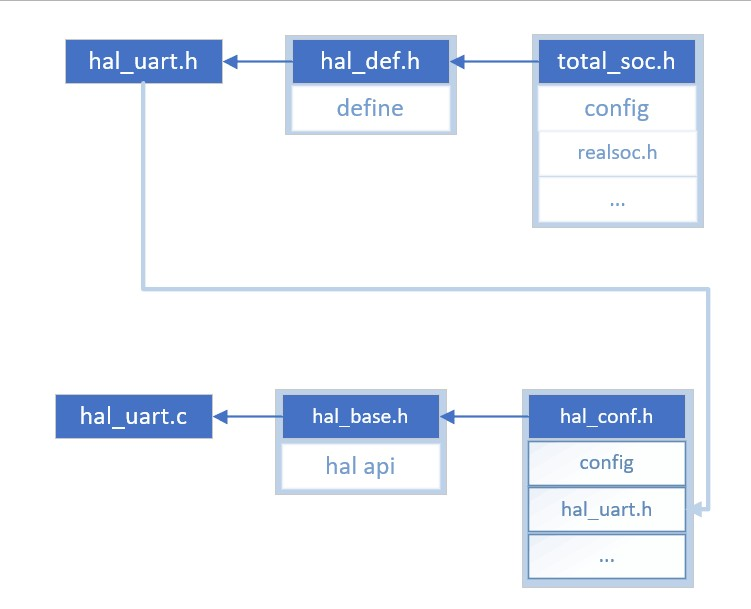
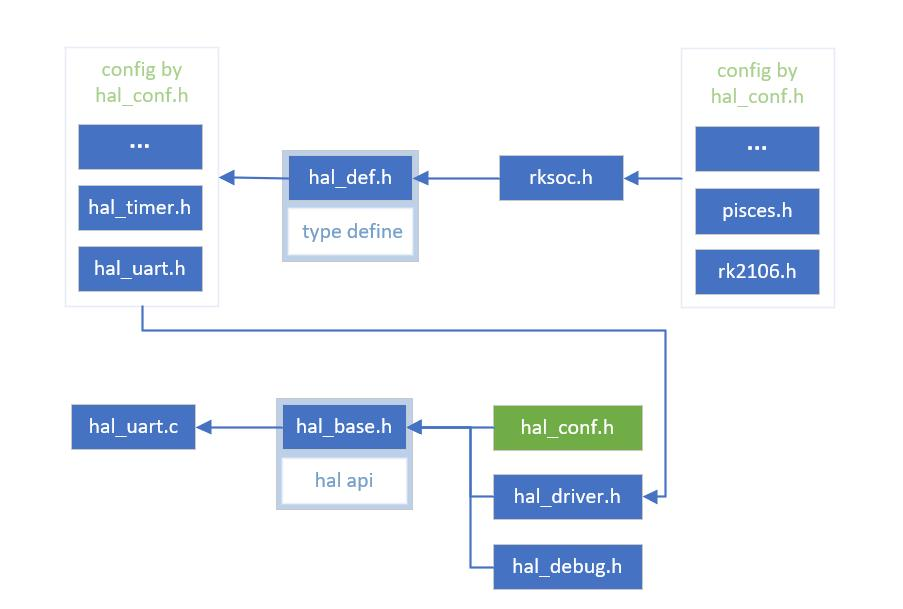
doc: adjust header file reference relationship description in User_Guild

Changed region(s): [[0.0613, 0.0312, 0.9494, 0.9672]]

diff --git a/doc/RKMCU_Firmware_Library_User_Guide_CN.md b/doc/RKMCU_Firmware_Library_User_Guide_CN.md
@@ -756,7 +756,7 @@ enum {
 
 ![header](RKMCU_Firmware_Library_User_Guide_CN\header_call.jpg)
 
-其中芯片的选择位于rksoc.h, 模块选择位于hal_config.h。
+其中芯片的选择和模块选择统一位于hal_conf.h。
 
 ## 3.8 模块驱动
 
